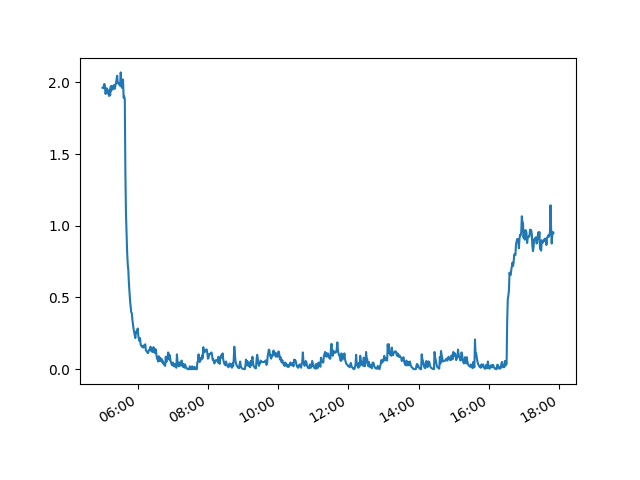
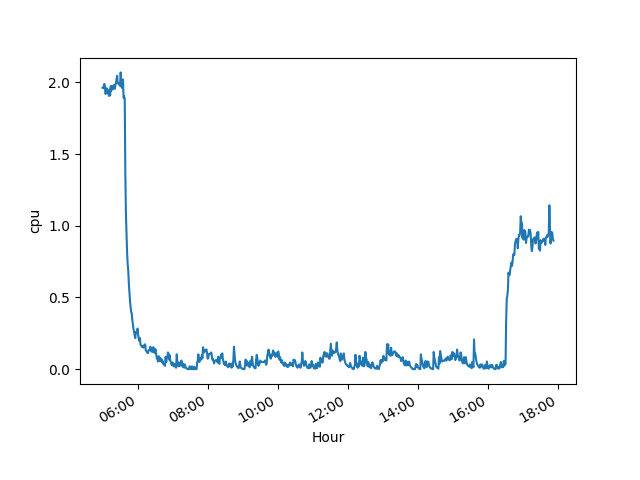
labels

diff --git a/src/get_summaries.py b/src/get_summaries.py
@@ -10,6 +10,8 @@ import numpy as np
 import matplotlib 
 matplotlib.use('Agg')
 import matplotlib.pyplot as plt
+import matplotlib.dates as mdates
+
 
 def get_data(hostname):
 	# parse config
@@ -46,7 +48,6 @@ def get_data(hostname):
 		cur.execute(query)
 		rows = cur.fetchall()
 		data[t] = rows
-	
 	return data
 
 
@@ -59,8 +60,18 @@ def main():
 	
 		for t in types:
 			metric = [data[3] for data in all_data[t]]
+
+			fig, ax = plt.subplots(1)
+			fig.autofmt_xdate()
+			
+			plt.ylabel(t)
+			plt.xlabel("Hour")
 			plt.plot(times, metric)
+			xfmt = mdates.DateFormatter('%H:%M')
+			ax.xaxis.set_major_formatter(xfmt)
 			plt.savefig(host + '_' + t + '.png')
 			plt.gcf().clear()
+
+
 if __name__ == "__main__":
     main()
